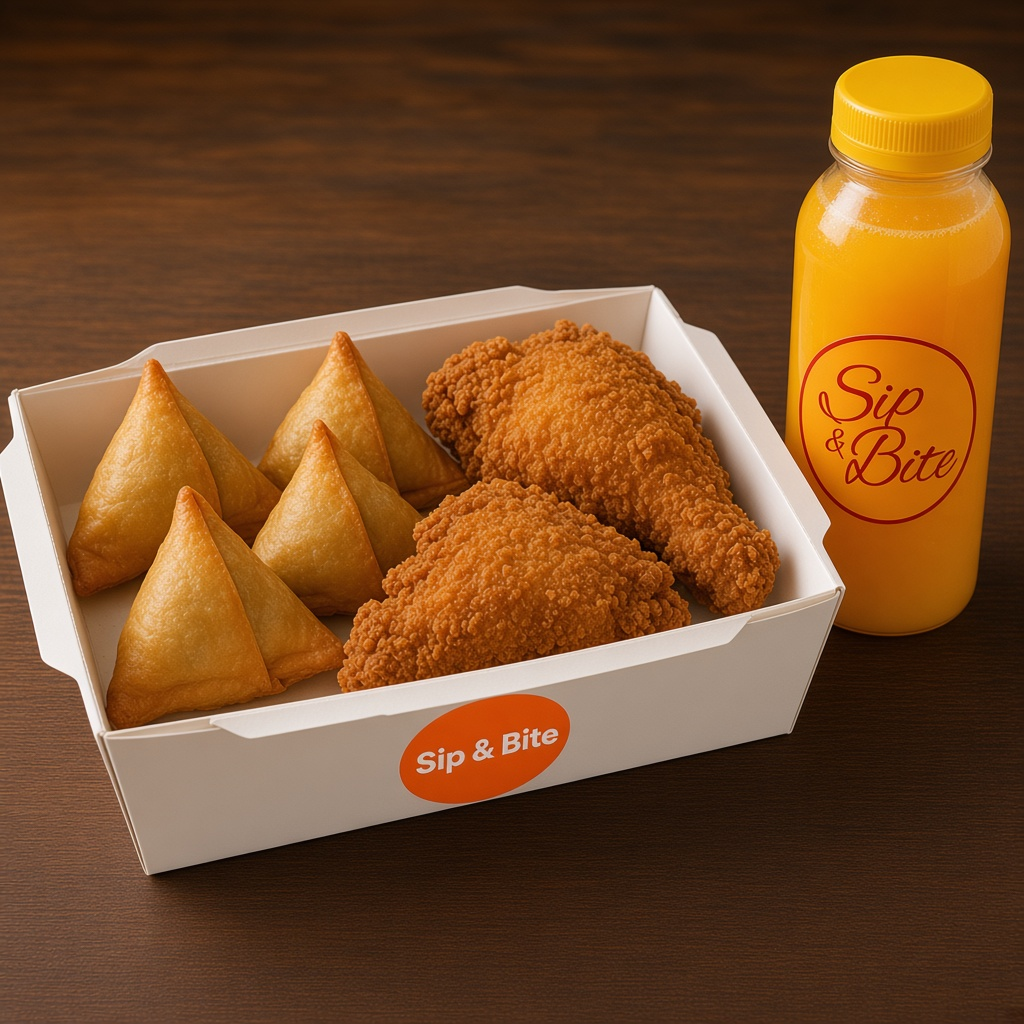
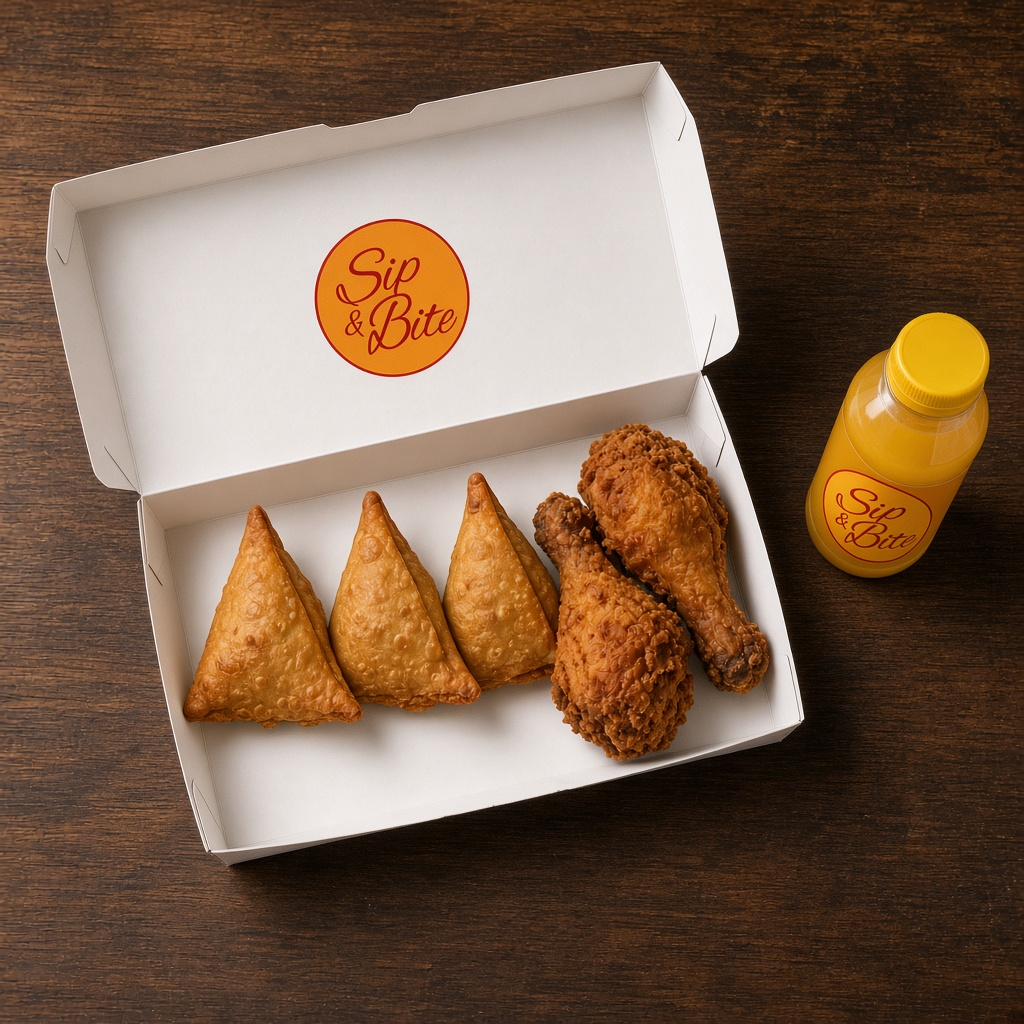
Show three small chops in the combos and keep client sign-in to email.

diff --git a/src/components/AuthDialog.tsx b/src/components/AuthDialog.tsx
@@ -7,7 +7,7 @@ import { User } from "lucide-react";
 import { useAuth } from "@/context/AuthContext";
 
 export default function AuthDialogButton() {
-  const { user, login, register, logout, loginWithProvider, resetPassword } = useAuth();
+  const { user, login, register, logout, resetPassword } = useAuth();
   const [open, setOpen] = useState(false);
   const [menuOpen, setMenuOpen] = useState(false);
   const [mode, setMode] = useState<"login" | "register">("login");
@@ -33,20 +33,6 @@ export default function AuthDialogButton() {
       }
     } catch (err: any) {
       setError(err?.message || "Authentication failed. Please try again.");
-    } finally {
-      setLoading(false);
-    }
-  };
-
-  const handleOAuth = async (provider: "google" | "github") => {
-    try {
-      setLoading(true);
-      setError("");
-      setMessage("");
-      await loginWithProvider(provider);
-      // Supabase will redirect; dialog can remain closed/open depending on redirect
-    } catch (err: any) {
-      setError(err?.message || "Failed to authenticate.");
     } finally {
       setLoading(false);
     }
@@ -117,26 +103,10 @@ export default function AuthDialogButton() {
             {user
               ? "Manage your account or sign out."
               : mode === "login"
-              ? "Welcome back! Sign in to continue."
-              : "Create an account to save your details and speed up checkout."}
+              ? "Sign in with your email and password."
+              : "Create your account with your name, email, and a password."}
           </DialogDescription>
         </DialogHeader>
-
-        {!user && (
-          <div className="space-y-2 mb-4">
-            <Button disabled={loading} onClick={() => handleOAuth("google")} className="w-full justify-center bg-slate-900 text-white hover:bg-slate-800">
-              Continue with Google
-            </Button>
-            <Button disabled={loading} onClick={() => handleOAuth("github")} variant="outline" className="w-full justify-center">
-              Continue with GitHub
-            </Button>
-            <div className="flex items-center gap-2 py-1">
-              <div className="h-px bg-slate-200 flex-1" />
-              <span className="text-[10px] uppercase tracking-widest text-slate-400">or</span>
-              <div className="h-px bg-slate-200 flex-1" />
-            </div>
-          </div>
-        )}
 
         {user ? (
           <div className="space-y-4">

diff --git a/src/data/menu.ts b/src/data/menu.ts
@@ -41,8 +41,8 @@ export const menuData = {
   packages: [
     { id: "p1", name: "Fries + 2 chicken pieces", price: 50, description: "Fries with two pieces of chicken", image: fries2ChickenImg, tag: "Combo" },
     { id: "p2", name: "Fries, 3 chicken & drink", price: 80, description: "Fries, three chicken pieces, and a drink", image: fries3ChickenDrinkImg, tag: "Combo", options: drinkOptions },
-    { id: "p3", name: "Samosas, 2 chicken & drink", price: 50, description: "Samosas, two pieces of chicken, and a drink", image: samosaChickenDrinkImg, tag: "Combo", options: drinkOptions },
-    { id: "p4", name: "Spring rolls, 2 chicken & drink", price: 50, description: "Spring rolls, two pieces of chicken, and a drink", image: springrollChickenDrinkImg, tag: "Combo", options: drinkOptions },
+    { id: "p3", name: "Samosas, 2 chicken & drink", price: 50, description: "Three samosas, two pieces of chicken, and a drink", image: samosaChickenDrinkImg, tag: "Combo", options: drinkOptions },
+    { id: "p4", name: "Spring rolls, 2 chicken & drink", price: 50, description: "Three spring rolls, two pieces of chicken, and a drink", image: springrollChickenDrinkImg, tag: "Combo", options: drinkOptions },
     { id: "p5", name: "Fries, samosas, 3 chicken & drink", price: 100, description: "Fries, samosas, three chicken pieces, and a drink", image: samosa3ChickenDrinkImg, tag: "Combo", options: drinkOptions },
     { id: "p6", name: "Fries, spring rolls, 3 chicken & drink", price: 100, description: "Fries, spring rolls, three chicken pieces, and a drink", image: springroll3ChickenDrinkImg, tag: "Combo", options: drinkOptions },
   ],

diff --git a/src/context/AuthContext.tsx b/src/context/AuthContext.tsx
@@ -11,7 +11,6 @@ type AuthContextType = {
   user: User | null;
   login: (email: string, password: string) => Promise<void> | void;
   register: (name: string, email: string, password: string) => Promise<void> | void;
-  loginWithProvider: (provider: "google" | "github") => Promise<void> | void;
   resetPassword: (email: string) => Promise<void> | void;
   sendWelcomeEmail: (name: string, email: string) => Promise<void> | void;
   logout: () => Promise<void> | void;
@@ -153,15 +152,6 @@ export function AuthProvider({ children }: { children: ReactNode }) {
     setUser({ name, email, role: "customer" });
   };
 
-  const loginWithProvider = async (provider: "google" | "github") => {
-    if (!supabase) return;
-    const { error } = await supabase.auth.signInWithOAuth({
-      provider,
-      options: { redirectTo: SITE_URL },
-    });
-    if (error) throw error;
-  };
-
   const resetPassword = async (email: string) => {
     if (!supabase) return;
     const { error } = await supabase.auth.resetPasswordForEmail(email, {
@@ -182,7 +172,7 @@ export function AuthProvider({ children }: { children: ReactNode }) {
   };
 
   return (
-    <AuthContext.Provider value={{ user, login, register, loginWithProvider, resetPassword, sendWelcomeEmail, logout }}>
+    <AuthContext.Provider value={{ user, login, register, resetPassword, sendWelcomeEmail, logout }}>
       {children}
     </AuthContext.Provider>
   );
